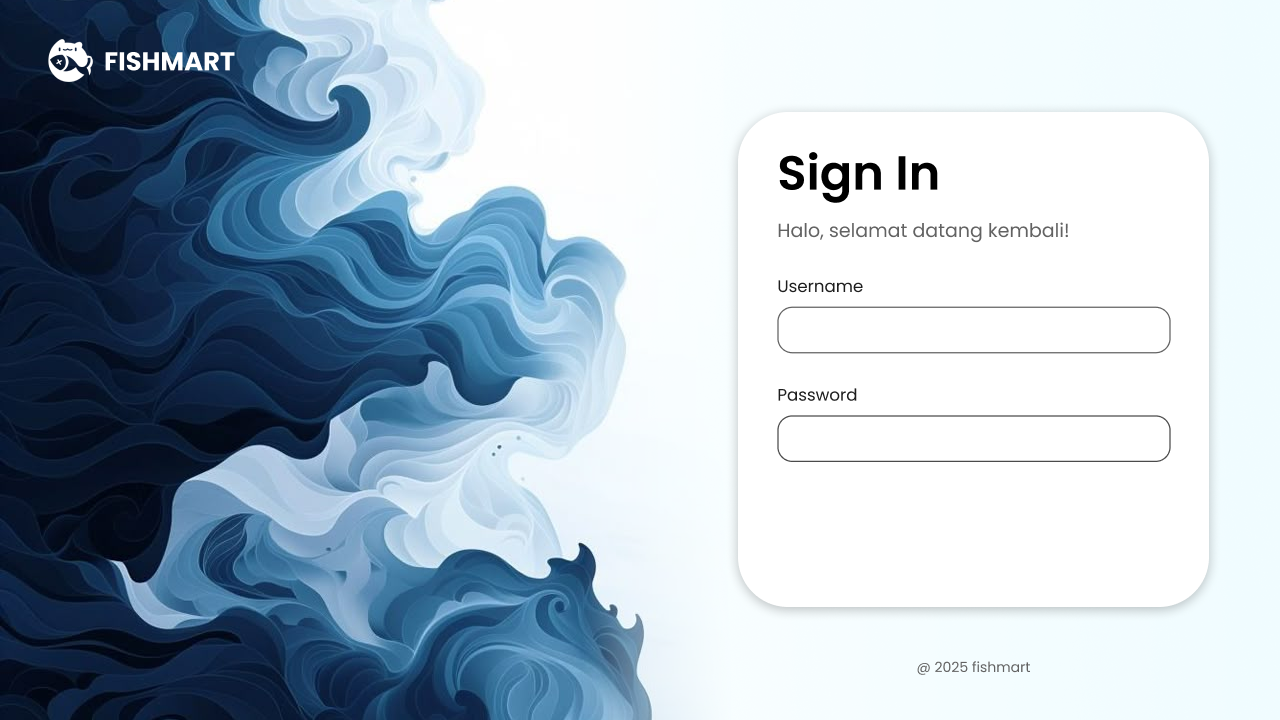
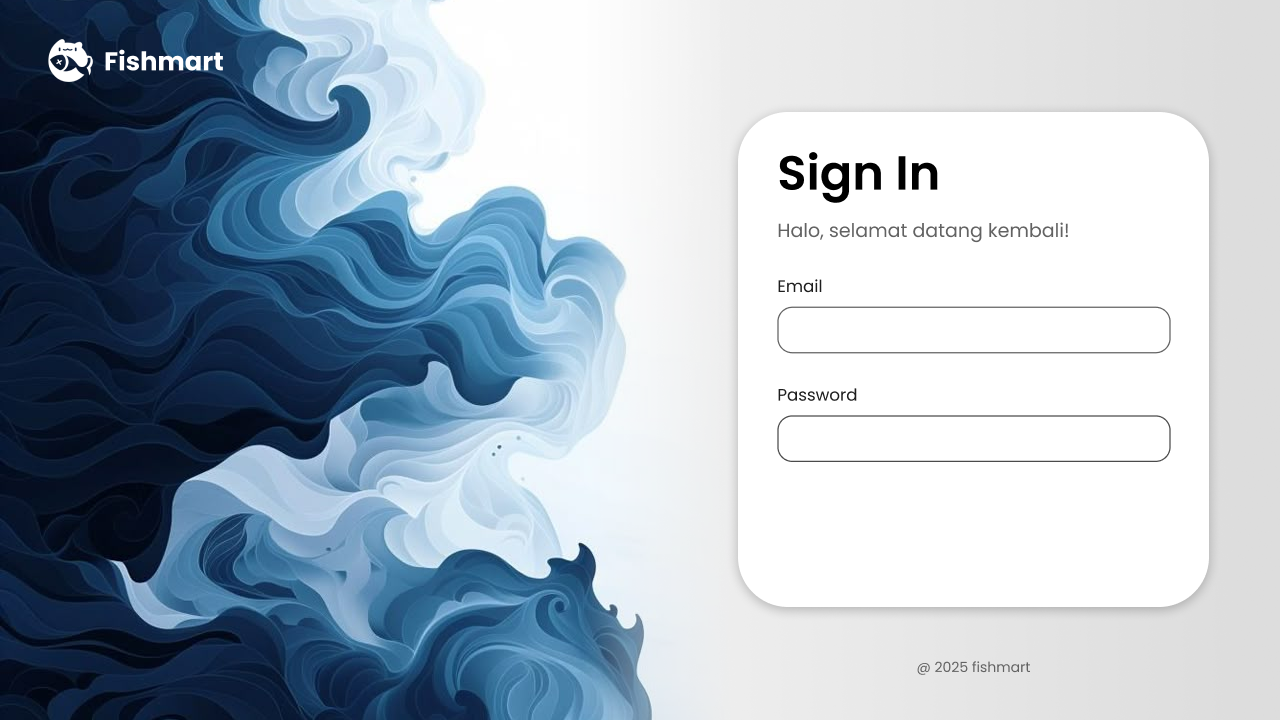
fix resources and models

Changed region(s): [[0.7188, 0.0, 1.0, 1.0], [0.0938, 0.0611, 0.1875, 0.1222], [0.625, 0.3667, 0.6562, 0.4278]]

diff --git a/FishMart/Models/Akun.cs b/FishMart/Models/Akun.cs
@@ -8,48 +8,11 @@ namespace FishMart.Models
 {
     public class Akun
     {
-        private string _id;
-        private string _username;
-        private string _password;
-        private string _email;
-        private string _nomorTlp;
-        private bool _isAdmin;
-
-        public string Id
-        {
-            get { return _id; }
-            set { _id = value; }
-        }
-
-        public string Username
-        {
-            get { return _username; }
-            set { _username = value; }
-        }
-
-        public string Password
-        {
-            get { return _password; }
-            set { _password = value; }
-        }
-
-        public string Email
-        {
-            get { return _email; }
-            set { _email = value; }
-        }
-
-        public string NomorTlp
-        {
-            get { return _nomorTlp; }
-            set { _nomorTlp = value; }
-        }
-
-        public bool IsAdmin
-        {
-            get { return _isAdmin; }
-            set { _isAdmin = value; }
-        }
-
+        public string Id { get; set; }
+        public string Email { get; set; }
+        public string Password { get; set; }
+        public string Username { get; set; }
+        public string NoTelp { get; set; }
+        public bool IsAdmin { get; set; }
     }
 }

diff --git a/FishMart/Program.cs b/FishMart/Program.cs
@@ -1,3 +1,5 @@
+using DotNetEnv;
+
 namespace FishMart
 {
     internal static class Program
@@ -8,6 +10,7 @@ namespace FishMart
         [STAThread]
         static void Main()
         {
+            Env.Load();
             // To customize application configuration such as set high DPI settings or default font,
             // see https://aka.ms/applicationconfiguration.
             ApplicationConfiguration.Initialize();

diff --git a/FishMart/DataBase/dbContext.cs b/FishMart/DataBase/dbContext.cs
@@ -22,8 +22,6 @@ namespace FishMart.DataBase
 
         public dbContext()
         {
-            Env.Load();
-
             _dbHost = Environment.GetEnvironmentVariable("DB_HOST");
             _dbPort = Environment.GetEnvironmentVariable("DB_PORT");
             _dbUser = Environment.GetEnvironmentVariable("DB_USER");
